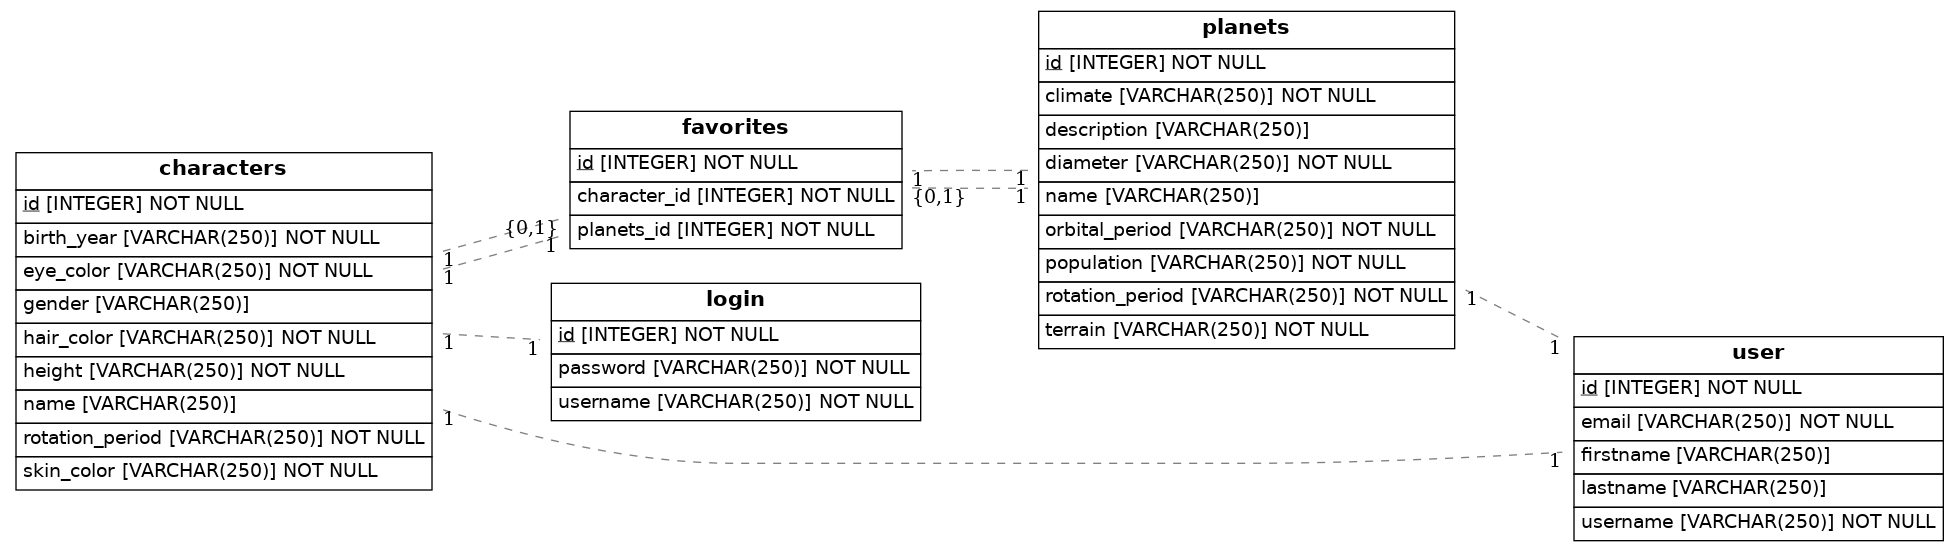
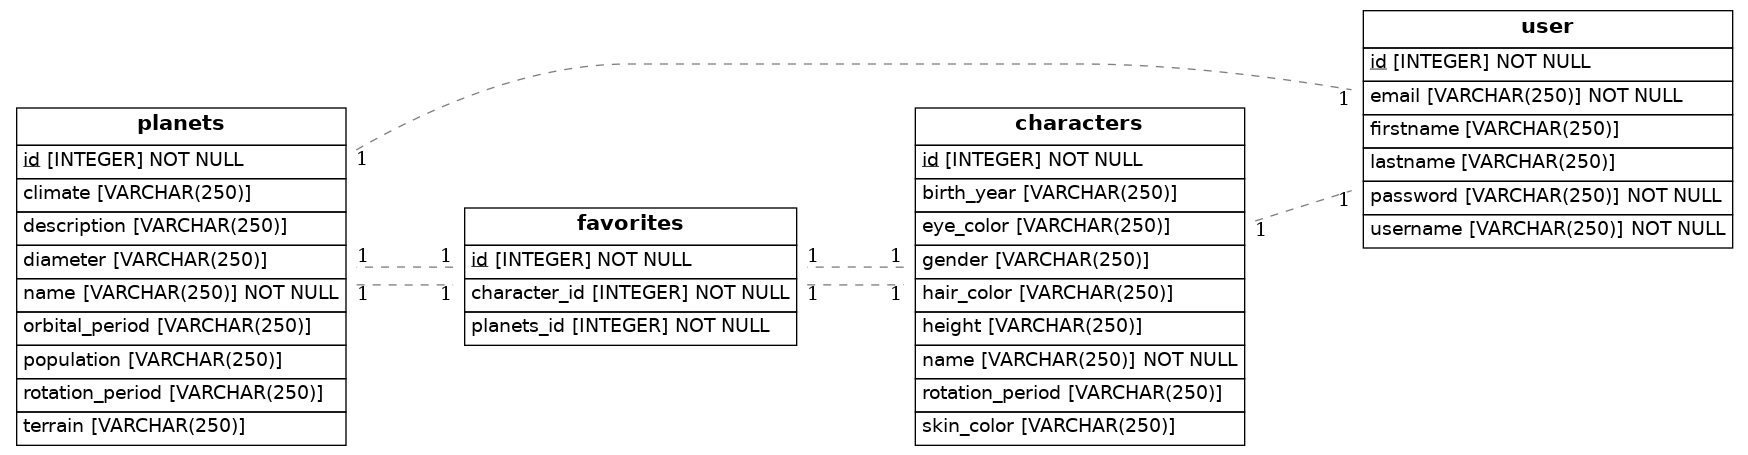
reviews

Changed region(s): [[0.0, 0.0, 1.0, 0.9846], [0.8032, 0.6462, 1.0, 0.9846], [0.8032, 0.5846, 0.9886, 0.6462]]

diff --git a/src/models.py b/src/models.py
@@ -23,28 +23,28 @@ class Planets(Base):
     # Here we define columns for the table planets.
     # Notice that each column is also a normal Python instance attribute.
     id = Column(Integer, primary_key=True)
-    name = Column(String(250), ForeignKey("favorites.id"), nullable=True, unique=True)
+    name = Column(String(250), ForeignKey("favorites.id"), nullable=False, unique=True)
     description = Column(String(250), nullable=True)
-    climate = Column(String(250), nullable=False)
-    population = Column(String(250), nullable=False)
-    orbital_period = Column(String(250), nullable=False)
-    rotation_period = Column(String(250), nullable=False)
-    diameter = Column(String(250), nullable=False)
-    terrain = Column(String(250), nullable=False)
+    climate = Column(String(250), nullable=True)
+    population = Column(String(250), nullable=True)
+    orbital_period = Column(String(250), nullable=True)
+    rotation_period = Column(String(250), nullable=True)
+    diameter = Column(String(250), nullable=True)
+    terrain = Column(String(250), nullable=True)
 
 class Characters(Base):
     __tablename__ = 'characters'
     # Here we define columns for the table Characters.
     # Notice that each column is also a normal Python instance attribute.
     id = Column(Integer, primary_key=True)
-    name = Column(String(250), ForeignKey("favorites.id"), nullable=True, unique=True)
+    name = Column(String(250), ForeignKey("favorites.id"), nullable=False, unique=True)
     gender = Column(String(250), nullable=True)
-    hair_color = Column(String(250), nullable=False)
-    eye_color = Column(String(250), nullable=False)
-    birth_year = Column(String(250), nullable=False)
-    rotation_period = Column(String(250), nullable=False)
-    height = Column(String(250), nullable=False)
-    skin_color = Column(String(250), nullable=False)   
+    hair_color = Column(String(250), nullable=True)
+    eye_color = Column(String(250), nullable=True)
+    birth_year = Column(String(250), nullable=True)
+    rotation_period = Column(String(250), nullable=True)
+    height = Column(String(250), nullable=True)
+    skin_color = Column(String(250), nullable=True)   
 
 class Favorites(Base):
     __tablename__ = 'favorites'
